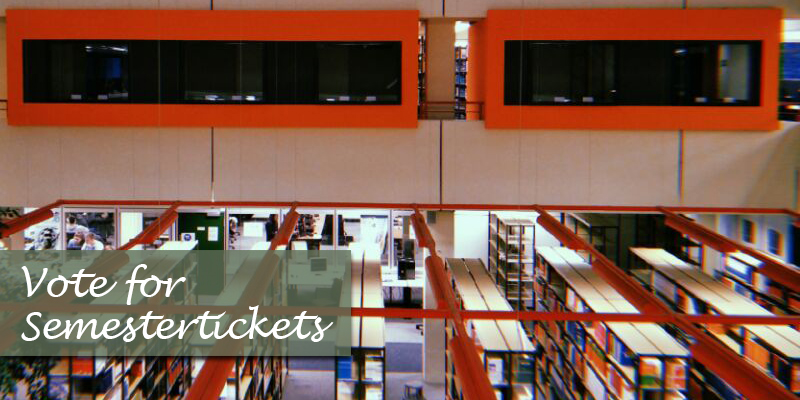
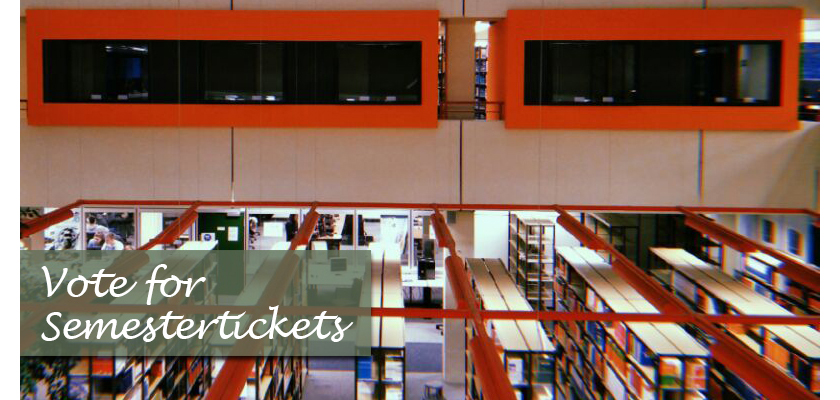
refine mainpage

diff --git a/MainPage/MainPage.html b/MainPage/MainPage.html
@@ -23,31 +23,130 @@
 				onclick="window.location.href='../Luebeck City/LuebeckCity.html'">Luebeck City</button>
 		<button id="buddyBtn" onmouseover="buttonFocus(this.id)" onmouseout="buttonOut(this.id)"
 				onclick="window.location.href='../China Buddy/ChinaBuddy.html'">China Buddy</button>
-		<button id="profBtn" onmouseover="buttonFocus(this.id)" onmouseout="buttonOut(this.id)"
-				onclick="window.location.href='../Professor/professor.html'">Professor</button>
+		<button id="guideBtn" onmouseover="buttonFocus(this.id)" onmouseout="buttonOut(this.id)"
+				onclick="window.location.href='../Guide/Guide.html'">Guide</button>
 		</div>
 	
 		<!-- main part -->
-		<div id="mainDiv">
-			<div id="weeklyNews"><img src="weeklyNews.jpg"/></div>
-			<div id="monthNotices">
-				<p id="month">December</p>
-				<table id="monthTable" style="width:100%">
-					<tr class="border_bottom"><td>09</td><td> Test (Network Security) closes</td></tr>
-					<tr class="border_bottom"><td>20</td><td> Exercise (Internet Programming)</td></tr>
-					<tr class="border_bottom"><td>21</td><td> Christmas Holidays start</td></tr>
-					<tr class="border_bottom"><td>24</td><td> Christmas Eve</td></tr>
-					<tr class="border_bottom"><td>25</td><td> Christmas</td></tr>
-				</table>
+		<div id="mainDiv" style="display:flex; ">
+		
+			<!-- quick links -->
+			<div id="quickLinks">
+				<div id="quickLinksDiv">
+				<p id="quickLinksPara">Quick Links</p>
+				</div>
+				
+				<div id="quicklinks">
+				<a id="link1" href="https://www.th-luebeck.de/">Technische Hochshule Luebeck</a><br/>
+				<p id="addr1">Address: Mönkhofer Weg 239, 23562 Lübeck, Germany</p>
+				<a id="link2" href="https://www.ecust.edu.cn/">East China University of Science and Technology</a>
+				<p id="addr2">Address: Meilong Road 130, 200237 Shanghai, China</p>
+				<a id="link3" href="https://lernraum.th-luebeck.de/">Lernraum der Technischen Hochschule Lübeck</a><br/><br/>
+				<a id="link4" href="https://qis.th-luebeck.de/qisserver/rds?state=user&type=0">QIS System</a>
+				</div>
 			</div>
+			
+			<!-- news -->
+			<div id="mainpart2" style="width: 990px; height: 900px;">
+				
+				<!-- important news in this week/month -->
+				<div style="width: 990px; height: 400px;">
+				<div id="weeklyNews" style="width: 840px; height: 400px; float: left;">
+					<img src="weeklyNews.jpg"/>
+				</div>
+				<!-- month notices -->
+				<div id="monthNotices">
+					<div id="monthDiv">
+					<p id="month">December</p>
+					</div>
+				
+					<table id="monthTable" style="width:100%">
+						<tr>
+							<td style="font-family: 'Lobster', serif; font-size:20px;">09</td>
+							<td style="font-size:6px;"> Test (Network Security) closes</td>
+						</tr>
+						<tr>
+							<td style="font-family: 'Lobster', serif; font-size:20px;">20</td>
+							<td style="font-size:6px;"> Exercise (Internet Programming)</td>
+						</tr>
+						<tr>
+							<td style="font-family: 'Lobster', serif; font-size:20px;">21</td>
+							<td style="font-size:6px;"> Christmas Holidays start</td>
+						</tr>
+						<tr>
+							<td style="font-family: 'Lobster', serif; font-size:20px;">24</td>
+							<td style="font-size:6px;"> Christmas Eve</td>
+						</tr>
+						<tr>
+							<td style="font-family: 'Lobster', serif; font-size:20px;">25</td>
+							<td style="font-size:6px;"> Christmas</td>
+						</tr>
+					</table>
+				</div>
+				</div>
+				
+				<!-- news from other sections -->
+				<div id="news1">
+					<p style="padding-top:312px; padding-left: 4px; font-family:'PT Serif',serif; 
+					   color:white; font-size: 20px;">
+					Sample Text</p>
+					<p style="margin-top:-18px; padding-left: 4px; font-family:'Noto Sans KR',sans-serif;
+					   color:white;font-size: 6px; letter-spacing: 1px;">
+					Today, the first snow in this winter came to Luebeck. sample text sample text ...</p>
+				</div>
+				
+				<div id="news2">
+					<div id="news2Div">
+						<p style="font-family: 'Lobster', serif; color: white; letter-spacing:2px;
+						   font-size:20px; margin-top:2px; margin-left:7px; margin-bottom:-10px;">
+						   Editor's picks
+						</p>
+					</div>
+					<div class="newsClass">
+						<p class="newsTitle">Today we want to make something special.</p>
+						<p class="newsContent">
+							It is really hard to think about content now. 
+							Next time it will be filled with real news.
+							It is really hard to think about content now. 
+							Next time it will be filled with real news.
+						</p>
+					</div>
+					<div class="newsClass">	
+						<p class="newsTitle">Hard to think news. sample text sample text.</p>
+						<p class="newsContent">
+							It is really hard to think about content now. 
+							Next time it will be filled with real news.
+							It is really hard to think about content now. 
+							Next time it will be filled with real news.
+						</p>
+					</div>
+					<div class="newsClass">
+						<p class="newsTitle">We five people go to Hamburg today.</p>
+						<p class="newsContent">
+							It is really hard to think about content now. 
+							Next time it will be filled with real news.
+							It is really hard to think about content now. 
+							Next time it will be filled with real news.
+						</p>
+					</div>
+					<div class="newsClass">
+						<p class="newsTitle">Everyone trys to get a higher grades in TOEFL.</p>
+						<p class="newsContent">
+							It is really hard to think about content now. 
+							Next time it will be filled with real news.
+							It is really hard to think about content now. 
+							Next time it will be filled with real news.
+						</p>
+					</div>
+				</div>
+			</div>
+			
 		</div>	
 	
-		<div id="quickLinksDiv">
-			<p id="quickLinksPara">Quick Links</p>
-			<a id="link1" href="https://www.th-luebeck.de/">Technische Hochshule Luebeck</a><br/>
-			<p id="addr1">Address: Mönkhofer Weg 239, 23562 Lübeck, Germany</p>
-			<a id="link2" href="https://www.ecust.edu.cn/">East China University of Science and Technology</a>
-			<p id="addr2">Address: Meilong Road 130, 200237 Shanghai, China</p>
-		</div>
+		
 </body>
+<footer>
+	<p>Copyright © Group3<br/>
+	   Xinyue Shi, Yanran Liu, Yu Kong</p>
+</footer>
 </html>

diff --git a/MainPage/mainPageStyle.css b/MainPage/mainPageStyle.css
@@ -2,12 +2,11 @@
 #bannerDiv{
 	margin-left: auto;
 	margin-right: auto;
-	background: url("logo.png");
+	background: url("../logo.png");
 	background-size: cover;
 	width: 1140px;
 	height: 100px;
 }
-
 #HomeBtn{
 	margin-top: 70px;
 	background-color: white;
@@ -16,7 +15,7 @@
 	width: 186px;
 	font-family: 'Noto Sans KR', sans-serif;
 }
-#THLBtn,#lifeBtn,#cityBtn,#buddyBtn,#profBtn{
+#THLBtn,#lifeBtn,#cityBtn,#buddyBtn,#guideBtn{
 	margin-top: 70px;
 	background-color: transparent;
 	border: none;
@@ -28,27 +27,109 @@
 #mainDiv{
 	margin-top: 10px;
 	width: 1140px;
-	height: 400px;
+	height: 825px;
 	margin-left: auto;
 	margin-right: auto;
 }
-#weeklyNews{
-	width: 800px;
+
+#quickLinks{
+	width: 150px;
+	height: 825px;
+	background-color: #aebda6;
+}
+#quickLinksDiv{
+	height: 28px;
+	width: 140px;
+	margin-left: auto;
+	margin-right: auto;
+	border-style: solid;
+	border-width: 0px 0px 2px 0px;
+	border-color:white;
+	margin-bottom: 7px;
+}
+#quickLinksPara{
+	text-align: center;
+	width: 150px;
+	height: 35px;
+	color: white; 
+	font-family: 'Lobster', serif; 
+	font-size: 20px;
+	letter-spacing: 3px;
+	margin-top:5px;
+}
+#quicklinks{
+	margin-top: 5px;
+	width: 150px;
+	height: 340px;
+	font-size: 10px;
+	font-family: 'Noto Sans KR', sans-serif;
+	padding-left: 7px;
+}
+
+#news1{
+	margin-left: 20px;
+	margin-top: 20px;
+	background: url('2.jpg');
+	width: 400px;
 	height: 400px;
 	float: left;
 }
-#monthNotices{
-	width: 300px;
+#news2{
+	margin-top: 20px;
+	width: 550px;
 	height: 400px;
 	float: right;
-	
+	background-color: #aebda6;
+	text-align: left;
+}
+#news2Div{
+	height: 28px;
+	width: 540px;
+	margin-left: auto;
+	margin-right: auto;
+	border-style: solid;
+	border-width: 0px 0px 2px 0px;
+	border-color:white;
+	margin-bottom: -10px;
+}
+
+.newsClass{ 
+	width: 540px; 
+	border-style: solid;
+	border-width: 0px 0px 1px 0px; 
+	border-color: #e8e8e8; 
+	margin-left: 5px;
+}
+.newsTitle{
+	font-size: 18px;
+	font-family: 'PT Serif', serif;
+	padding-left: 7px;
+}
+.newsContent{
+	margin-left: 10px;
+	margin-top: -15px;
+	font-size: 10px;
+	font-family: 'Noto Sans KR', sans-serif;
+}
+
+#monthNotices{
+	width: 150px;
+	height: 400px;
 	text-align: center;
+	background-color: #aebda6;
+	float:right;
+}
+#monthDiv{
+	height: 28px;
+	width: 140px;
+	margin-left: auto;
+	margin-right: auto;
+	border-style: solid;
+	border-width: 0px 0px 2px 0px;
+	border-color:white;
+	margin-bottom: 7px;
 }
 #month{
-	margin-top: -5px;
-	width: 300px;
-	height: 35px;
-	background-color: #aebda6;
 	color: white; 
 	font-family: 'Lobster', serif; 
 	font-size: 25px;
@@ -57,33 +138,25 @@
 }
 #monthTable{
 	margin-top: -10px;
-	width: 300px;
-	height: 340px;
-	background-color: #aebda6;
+	width: 150px;
 	color: white; 
 	text-align: left;
-}
-tr.border_bottom td {
-  border-bottom:1pt solid black;
+	border-collapse:separate; 
+	border-spacing: 10px 10px;
 }
 
-#quickLinksDiv{
+footer{
+	width: 1140px;
 	margin-left: auto;
 	margin-right: auto;
-	width: 1140px;
-	height: 125px;
-	margin-top: 5px;
-	background-color: rgba(117, 109, 37, 0.6);
-}
-#quickLinksPara{
-	margin-left: 5px;
-	font-size: 20px;
-	font-family: 'PT Serif', serif;
-	margin-bottom: 5px;
-}
-#addr1,#addr2,#link1,#link2{
-	margin-top:-3px;
-	margin-left: 5px;
-	font-size: 10px;
+	text-align: center;
 	font-family: 'Noto Sans KR', sans-serif;
+	color: white;
+	letter-spacing: 3px;
+	font-size: 10px;
+	border-top-style: solid;
+	border-top-width: 2px;
+	border-top-color: #7b946d;
+	background-color: #aebda6;
+	margin-top: 10px;
 }
